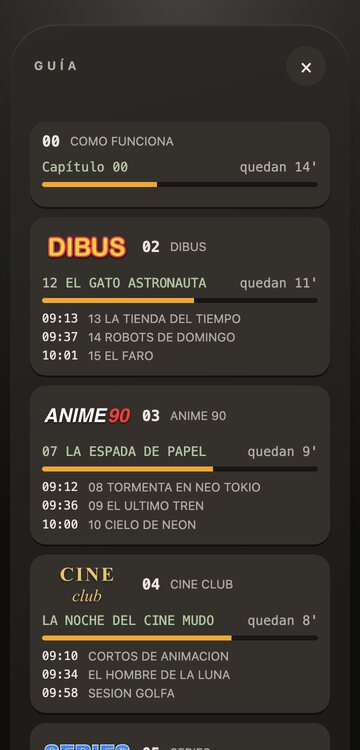
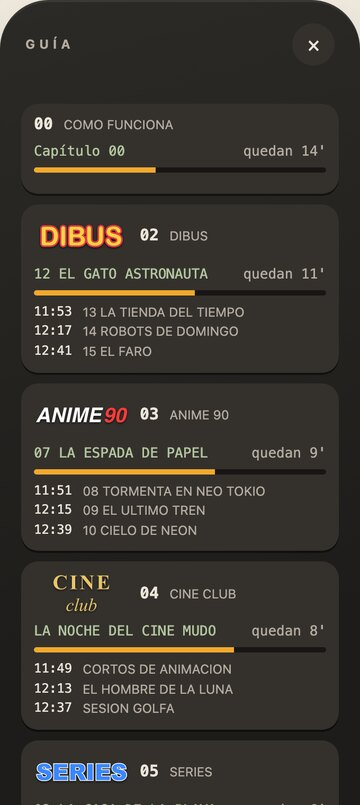
README: how it works in 15 seconds, teletext GIF, new remote captures, claps and messages

diff --git a/src/web/RemotePage.h b/src/web/RemotePage.h
@@ -300,7 +300,7 @@ text-shadow:0 -1px 0 #0009,0 1px 0 #ffffff24}
 <ul class="list">
 <li><label class="chl"><input type="checkbox" class="sw" id="vmic"><span>Micr&oacute;fono</span></label></li>
 <li><label class="chl"><input type="checkbox" class="sw" id="vclap"><span>Palmadas</span></label></li>
-<li><label class="chl"><input type="checkbox" class="sw" id="vsb"><span>Al apagar, seguir escuchando palmadas (STANDBY VOZ)</span></label></li>
+<li><label class="chl"><input type="checkbox" class="sw" id="vsb"><span>Escuchar palmadas al apagar</span></label></li>
 <li><label class="chl"><input type="checkbox" class="sw" id="vled"><span>Piloto al o&iacute;r una palmada</span></label></li>
 </ul>
 <label class="fld">Sensibilidad <output id="vso"></output><input type="range" id="vsen" min="0" max="100" step="10"></label>

diff --git a/README.md b/README.md
@@ -23,7 +23,10 @@
 <p align="center">
   <a href="#primeros-pasos">Montarla</a> ·
   <a href="#qué-hace">Qué hace</a> ·
+  <a href="#en-15-segundos">En 15 segundos</a> ·
+  <a href="#teletexto">Teletexto</a> ·
   <a href="#mando-web">Mando web</a> ·
+  <a href="#palmadas-y-mensajes">Palmadas</a> ·
   <a href="#hardware">Hardware</a>
 </p>
 
@@ -36,7 +39,7 @@ lleva emitiendo desde antes de que llegaras. Cambias de canal y llegan el siseo,
 <p align="center">
   <img src="docs/img/case-front.jpg" width="42%" alt="Render de la carcasa tele90 v9, con cuatro teclas y carta de ajuste">
   <img src="docs/img/remote-designs.gif" width="55%" alt="Recorrido animado por los cuatro diseños del mando web: clásico, negro, plata y gris">
-  <br><sub>Carcasa tele90 v9 · Cuatro diseños de mando para el móvil (animación hecha con los renders del proyecto).</sub>
+  <br><sub>Carcasa tele90 v9 · Los cuatro mandos del móvil, capturados de la página real con canales y logos de ejemplo.</sub>
 </p>
 
 La carcasa es un diseño propio para impresión 3D. Dentro lleva la [Freenove ESP32-S3 Display 2.8″](#hardware),
@@ -45,7 +48,9 @@ una microSD, altavoz y batería. Puedes manejarla con sus botones, con palmadas 
 
 > [!NOTE]
 > El repositorio no contiene contenido de series o películas. Cada usuario convierte sus propios vídeos y los copia
-> a la microSD. La intro, las imágenes y la animación de mandos de esta página son material del proyecto.
+> a la microSD. Las imágenes de esta página son material del proyecto: renders de la carcasa, la intro, escenas del
+> vídeo del canal 0, capturas del mando con canales y logos inventados, y páginas de teletexto dibujadas con el código
+> del firmware.
 
 ## Qué hace
 
@@ -60,20 +65,31 @@ una microSD, altavoz y batería. Puedes manejarla con sus botones, con palmadas 
   la tele.
 - 📱 **Mando web.** `http://retrotv.local` en el móvil: canales, volumen, lista con logos, guía y ajustes, sin app ni
   nube. Cuatro diseños de mandos de época, que se cambian deslizando el dedo. Un canal enseña un QR para abrirlo.
-- 👏 **Palmadas y mensajes (experimental).** Con el firmware `voice`: **tres palmadas** la apagan y otras tres, con
-  silencio alrededor, la encienden (STANDBY VOZ). Dos no hacen nada: es lo que más se cuela. No es infalible: algún
-  ruido puede colarse y alguna palmada floja no contar. Una grabadora de mensajes de 15 s y un canal MENSAJES que los pone. Todo en la tele, sin
-  Internet. Las palmadas no graban nada; la grabadora guarda un WAV en la microSD solo cuando la pones en marcha, con
-  ● REC en pantalla ([docs/VOICE.md](docs/VOICE.md)). "HEY RETRO" y los comandos de voz **no están implementados**.
+- 👏 **Palmadas y mensajes (experimental).** Con el firmware `voice`, **tres palmadas** la apagan y otras tres la
+  encienden. Una grabadora de mensajes de 15 s y un canal MENSAJES que los pone, todo en la tele y sin Internet
+  ([más abajo](#palmadas-y-mensajes)).
 - 🔋 **Portátil.** LiPo de 3000 mAh dentro, aviso en pantalla, reposo profundo (también solo, con la batería
   agotada) y encendido con cualquier tecla.
+
+## En 15 segundos
+
+<p align="center">
+  <img src="docs/img/como-funciona.gif" width="560" alt="Escenas del vídeo de bienvenida del canal 0: se enchufa y arranca sola, la tele no espera porque los canales siguen su horario, el teletexto con lo que echa cada canal y el canal del mando con su QR">
+  <br><sub>Escenas del canal 0, el vídeo de bienvenida del proyecto: enchufar, la tele no espera, teletexto y mando por QR.</sub>
+</p>
+
+1. **Se enchufa y arranca sola.** La línea del tubo se abre, suena la estática y entra el último canal que veías.
+2. **La tele no espera.** Cada canal sigue su horario aunque nadie lo mire: si vuelves en diez minutos, el capítulo
+   ha avanzado diez minutos.
+3. **El teletexto lo sabe todo.** Qué echa cada canal ahora, cuánto le queda y qué viene después.
+4. **El móvil es el mando.** El canal MANDO enseña un QR; se escanea y el móvil manda la tele por la Wi-Fi de casa.
 
 ## Índice
 
 - [Cómo funciona](#cómo-funciona)
 - [Hardware](#hardware)
 - [Primeros pasos](#primeros-pasos)
-- [Controles](#controles) · [Mando web](#mando-web)
+- [Controles](#controles) · [Mando web](#mando-web) · [Palmadas y mensajes](#palmadas-y-mensajes)
 - [Canales](#canales-retrotvconfigchannelsjson) · [En emisión](#en-emisión) · [Teletexto](#teletexto) ·
   [Canales por red](#canales-por-red-retrotv-server)
 - [microSD](#microsd) · [Convertir capítulos](#convertir-capítulos) · [Wi-Fi](#wi-fi)
@@ -249,7 +265,8 @@ Con la placa suelta, BOOT: clic = canal siguiente, doble clic = anterior, manten
 
 <p align="center">
   <img src="docs/img/mandos.jpg" width="100%" alt="Los cuatro diseños del mando web con una parrilla de ejemplo: CLÁSICO, oscuro con pantalla verde; NEGRO, con teclas beige, pantalla naranja y un panel con volumen, INFO redondo y canal en naranja; PLATA, plateado con teclas de colores y un aro de cruceta; GRIS, con cabeza redonda que lleva volumen, encendido rosa y canal">
-  <br><sub>De izquierda a derecha: CLÁSICO, NEGRO, PLATA y GRIS, con canales y logos de ejemplo.</sub>
+  <br><sub>De izquierda a derecha: CLÁSICO, NEGRO, PLATA y GRIS, con canales y logos inventados. Los tres primeros enseñan
+  los logos en color; el GRIS, en una sola tinta.</sub>
 </p>
 
 <img src="docs/img/sticker.png" width="300" align="right" alt="Pegatina trasera de RETROTV con el QR del mando y las instrucciones de encendido">
@@ -261,7 +278,7 @@ Con la tele en la Wi-Fi, abre **http://retrotv.local** en el móvil, conectado a
   uno. La pantalla de arriba muestra el canal y el volumen actuales. Los canales remotos llevan un punto rojo.
 - **Cómo funciona:** las órdenes entran por el mismo camino que los mandos físicos. Un salto directo pasa por la
   estática y el destello, como un zapeo.
-- **Dónde vive:** la página la sirve la propia tele, sin nube y sin el Mac. Pesa unos 38 KB y funciona sin Internet.
+- **Dónde vive:** la página la sirve la propia tele, sin nube y sin el Mac. Pesa unos 42 KB y funciona sin Internet.
 - **Cuatro mandos (botón MANDO, o deslizando el dedo a un lado):** cada uno con la forma, los colores y la colocación
   de un mando de verdad:
   - CLÁSICO, el de siempre;
@@ -300,9 +317,10 @@ Con la tele en la Wi-Fi, abre **http://retrotv.local** en el móvil, conectado a
 - **Wi-Fi:** las redes guardadas (sin contraseña), BUSCAR REDES para las de 2,4 GHz al alcance y AÑADIR RED, que la
   guarda en `wifi.json` de la SD. Las redes de `secrets.h` van en el firmware y no se pueden borrar desde aquí.
 - **Pantalla y sonido:** brillo y volumen, guardados como con los mandos.
-- **Voz** (solo con el firmware `voice`): micrófono, palmadas, sensibilidad, apagar escuchando palmadas (STANDBY VOZ)
+- **Voz** (solo con el firmware `voice`): micrófono, palmadas, sensibilidad, escuchar palmadas al apagar (STANDBY VOZ)
   y el destello del piloto al oír una palmada; los mismos ajustes que AJUSTES → VOZ en la tele. La grabadora no está
-  aquí a propósito: el mando no tiene PIN y cualquiera en la Wi-Fi podría grabar la sala.
+  aquí a propósito: el mando no tiene PIN y cualquiera en la Wi-Fi podría grabar la sala
+  ([ver más abajo](#palmadas-y-mensajes)).
 - **Canales:** activa o desactiva cada canal. Se guarda en `channels.json` de la SD; el zapeo y el mando se saltan los
   desactivados.
 - **Información:** versión, Wi-Fi, IP, SD, memoria y REINICIAR LA TELE.
@@ -336,6 +354,31 @@ Los `POST` necesitan la cabecera `X-RETROTV: 1`. Los ajustes van en `/api/config
   y `reboot`.
 
 </details>
+
+## Palmadas y mensajes
+
+Con el firmware `voice` (`platformio run -e voice --target upload`; en la carcasa sin botones, `-e voice_nokeys`) la
+tele usa su micrófono. Todo pasa dentro de la tele: sin Internet y sin servicios de reconocimiento.
+
+<img src="docs/img/ajustes-voz.jpg" width="250" align="right" alt="Apartado VOZ de los ajustes del mando web: micrófono, palmadas, escuchar palmadas al apagar, piloto al oír una palmada y sensibilidad 80">
+
+- **Apagar y encender con tres palmadas.** Con un canal puesto, tres palmadas seguidas (plas-plas-plas, a menos de
+  0,7 s entre ellas) la apagan con el efecto del tubo y la dejan en STANDBY VOZ, escuchando. Tras un momento de
+  silencio, otras tres la encienden. El piloto destella con cada palmada que oye. Dos palmadas no hacen nada: es lo
+  que más se cuela.
+- **No es infalible.** Funciona con palmadas firmes a 0,5–1 m. Algún ruido de casa puede colarse, y una palmada floja
+  que coincide con un golpe del programa no cuenta. La sensibilidad (80 por defecto) se cambia en AJUSTES → VOZ, en la
+  tele o en el mando.
+- **Consumo.** STANDBY VOZ gasta unos 40 mA (estimado de una noche, sin medidor): unos 3 días desde llena. Con la
+  batería agotada, duerme del todo.
+- **Mensajes.** AJUSTES → VOZ → GRABAR MENSAJE: cuenta atrás, ● REC hasta 15 s, y se guarda como WAV en la microSD,
+  subido al nivel de la voz para que se oiga bien. El canal **MENSAJES** se añade solo a la lista y los pone en bucle.
+- **Privacidad.** Las palmadas no graban nada: solo miden niveles. La grabadora solo graba cuando la pones en marcha
+  desde la tele, con ● REC en pantalla; el mando web no puede grabar.
+- **Lo que no hay:** ni "HEY RETRO" ni comandos de voz.
+
+Detalle, medidas y pruebas: [docs/VOICE.md](docs/VOICE.md).
+<br clear="right">
 
 ## Canales (`/retrotv/config/channels.json`)
 
@@ -408,6 +451,12 @@ canales en directo salen de la guía del servidor.
 | **P100** Inici | Portada: fecha, índice y cómo pasar de página |
 | **P101** Ara en emissió | Todos los canales: el capítulo de ahora y los minutos que le quedan (5 por subpágina: 1/3, 2/3…) |
 | **P2NN** | La guía del canal NN (P203 = canal 3): el capítulo de ahora con una barra de progreso y los 4 siguientes con su hora |
+
+<p align="center">
+  <img src="docs/img/teletext.gif" width="480" alt="El teletexto pasando de página: P100 portada con la fecha y el índice, P101 lo que echa cada canal y los minutos que quedan, P202 y P203 la guía de un canal con barra de progreso y los siguientes capítulos">
+  <br><sub>P100 → P101 → P202 → P203, con canales inventados. Dibujado con la fuente, los colores y el repintado de arriba
+  abajo del firmware (<code>Teletext.h</code> y <code>UITeletext.cpp</code>), a 320×240 y ampliado al doble.</sub>
+</p>
 
 - **Pasar de página:** solas cada 12 s, en orden. VOLUMEN +/− (o un toque) pasa a mano; la página elegida se queda 60 s.
 - **Estilo:** rejilla de 26×15 caracteres con los 8 colores del teletexto y títulos a doble altura. Es mudo.
